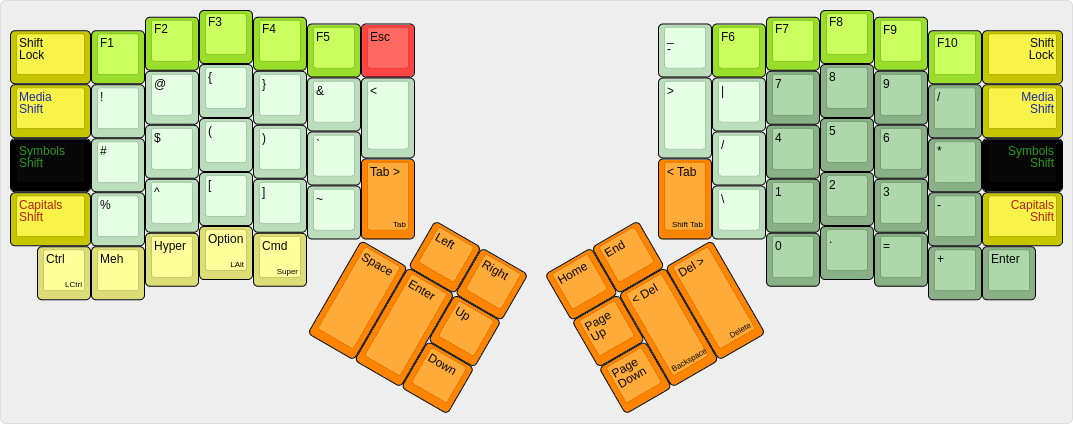
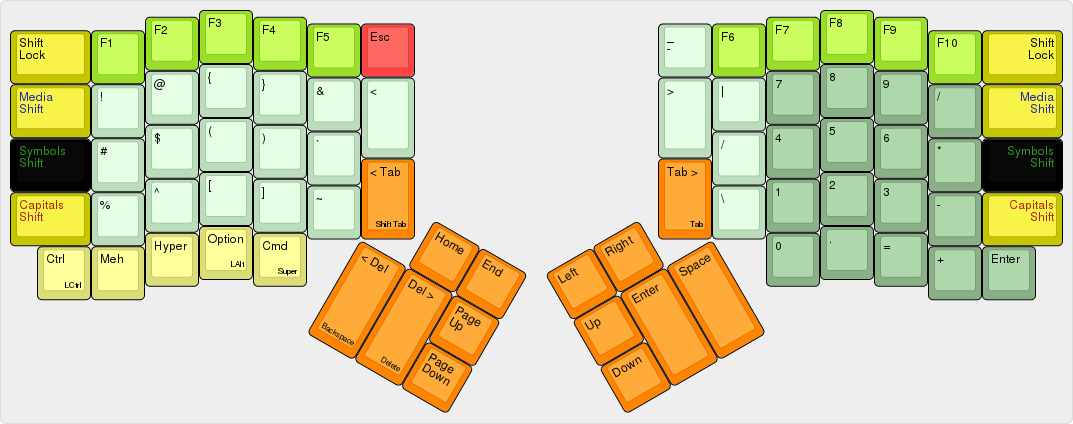
[extraordinary layout] Don't swap thumb clusters
Don't swap thumb cluster keys on the symbol layer

diff --git a/keyboards/ergodox/keymaps/extraordinary/keymap.c b/keyboards/ergodox/keymaps/extraordinary/keymap.c
@@ -93,11 +93,11 @@ const uint16_t PROGMEM keymaps[][MATRIX_ROWS][MATRIX_COLS] = {
  *     | LCtrl | Meh  |Hyper | LAlt | LGui |                                   |   0  |   .  |   =  |   +  |  Ent  |
  *     `-----------------------------------'                                   `-----------------------------------'
  *                                         ,-------------.       ,-------------.
- *                                         | Left | Right|       | Home | End  |
+ *                                         | Home | End  |       | Left | Right|
  *                                  ,------|------|------|       |------+------+------.
- *                                  |      |      |  Up  |       | PgUp |      |      |
- *                                  |Space |Enter |------|       |------|BackSp| Del  |
- *                                  |      |      | Down |       | PgDn |      |      |
+ *                                  |      |      | PgUp |       |  Up  |      |      |
+ *                                  |Backsp| Del  |------|       |------| Enter| Space|
+ *                                  |      |      | PgDn |       | Down |      |      |
  *                                  `--------------------'       `--------------------'
  */
 [SYMB] = KEYMAP(
@@ -105,20 +105,20 @@ const uint16_t PROGMEM keymaps[][MATRIX_ROWS][MATRIX_COLS] = {
  KC_TRNS ,KC_F1   ,KC_F2   ,KC_F3   ,KC_F4   ,KC_F5   ,KC_ESC
 ,KC_TRNS ,KC_EXLM ,KC_AT   ,KC_LCBR ,KC_RCBR ,KC_AMPR ,LSFT(KC_COMM)
 ,KC_TRNS ,KC_HASH ,KC_DLR  ,KC_LPRN ,KC_RPRN ,KC_GRV
-,KC_TRNS ,KC_PERC ,KC_CIRC ,KC_LBRC ,KC_RBRC ,KC_TILD ,KC_TAB
+,KC_TRNS ,KC_PERC ,KC_CIRC ,KC_LBRC ,KC_RBRC ,KC_TILD ,LSFT(KC_TAB)
 ,KC_LCTL ,KC_MEH  ,KC_HYPR ,KC_LALT ,KC_LGUI
-                                             ,KC_LEFT ,KC_RGHT
-                                                      ,KC_UP
-                                    ,KC_SPC  ,KC_ENT  ,KC_DOWN
+                                             ,KC_HOME ,KC_END
+                                                      ,KC_PGUP
+                                    ,KC_BSPC ,KC_DEL  ,KC_PGDN
                                                                  // right hand
                                                                  ,KC_MINS     ,KC_F6   ,KC_F7 ,KC_F8  ,KC_F9 ,KC_F10  ,KC_TRNS
                                                                  ,LSFT(KC_DOT),KC_PIPE ,KC_7  ,KC_8   ,KC_9  ,KC_SLSH ,KC_TRNS
                                                                               ,KC_SLSH ,KC_4  ,KC_5   ,KC_6  ,KC_ASTR ,KC_TRNS
-                                                                 ,LSFT(KC_TAB),KC_BSLS ,KC_1  ,KC_2   ,KC_3  ,KC_MINS ,KC_TRNS
+                                                                 ,KC_TAB      ,KC_BSLS ,KC_1  ,KC_2   ,KC_3  ,KC_MINS ,KC_TRNS
                                                                                        ,KC_0  ,KC_DOT ,KC_EQL,KC_PLUS ,KC_ENT
-                                                                 ,KC_HOME     ,KC_END
-                                                                 ,KC_PGUP
-                                                                 ,KC_PGDN     ,KC_BSPC ,KC_DEL
+                                                                 ,KC_LEFT     ,KC_RGHT
+                                                                 ,KC_UP
+                                                                 ,KC_DOWN     ,KC_ENT  ,KC_SPC
 ),
 
 /******* Media Layer *******************************************************************************************************
